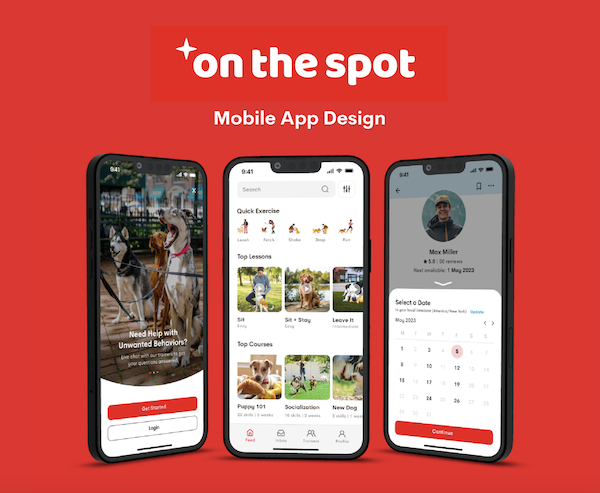
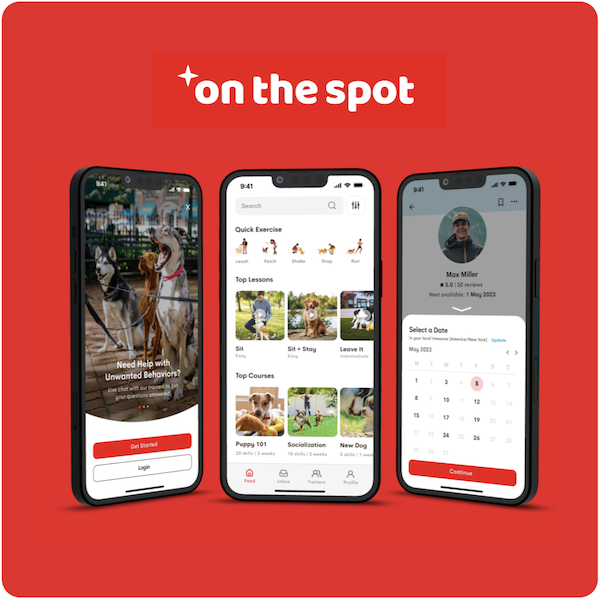
Cover Images Added

diff --git a/index.html b/index.html
@@ -53,8 +53,8 @@
             <div class="col-md-6"> <!-- first column for project -->
                 <div> <!-- open first column (used for image) -->
                     <picture>
-                        <source srcset="https://placehold.co/600x400" media="(max-width:767px)">
-                        <img src="https://placehold.co/1200x800" alt="The cover image for a On The Spot.">
+                        <source srcset="img/on the spot/2x images/onthespot_MockupDisplay@2x.png" media="(max-width:767px)">
+                        <img src="img/on the spot/1x Images/onthespot_MockupDisplay@1x.png" alt="The cover image for a On The Spot.">
                     </picture>
                 </div> <!-- end first column (image) -->
                 <div> <!-- open second column (used for text) -->
@@ -67,8 +67,8 @@
             <div class="col-md-6"> <!-- second column for project -->
                 <div> <!-- open first column (used for image) -->
                     <picture>
-                        <source srcset="https://placehold.co/600x400" media="(max-width:767px)">
-                        <img src="https://placehold.co/1200x800" alt="The cover image for Mindful Digits.">
+                        <source srcset="img/mindful digits/2x Images/mindfuldigits_MockupDisplay@2x.png" media="(max-width:767px)">
+                        <img src="img/mindful digits/1x Images/mindfuldigits_MockupDisplay@1x.png" alt="The cover image for Mindful Digits.">
                     </picture>
                 </div> <!-- end first column (image) -->
                 <div> <!-- open second column (used for text) -->
@@ -83,8 +83,8 @@
             <div class="col-md-6">
                 <div> <!-- open first column (used for image) -->
                     <picture>
-                        <source srcset="https://placehold.co/600x400" media="(max-width:767px)">
-                        <img src="https://placehold.co/1200x800" alt="The cover image for SpaceLab.">
+                        <source srcset="img/spacelab/2x Images/spacelab_MockupDisplay@2x.png" media="(max-width:767px)">
+                        <img src="img/spacelab/1x Images/spacelab_MockupDisplay@1x .png" alt="The cover image for SpaceLab.">
                     </picture>
                 </div> <!-- end first column -->
                 <div> <!-- open second column (used for text) -->
@@ -97,12 +97,26 @@
             <div class="col-md-6">
                 <div> <!-- open first column (used for image) -->
                     <picture>
-                        <source srcset="https://placehold.co/600x400" media="(max-width:767px)">
-                        <img src="https://placehold.co/1200x800" alt="The cover image for SpaceLab.">
+                        <source srcset="img/weatherchannel/2x Images/weatherchannel_MockupDisplay@2x.png" media="(max-width:767px)">
+                        <img src="img/weatherchannel/1x Images/weatherchannel_MockupDisplay@1x.png" alt="The cover image for the WeatherChannel.">
                     </picture>
                 </div> <!-- end first column -->
                 <div> <!-- open second column (used for text) -->
-                    <h4>SpaceLab Donation Landing Page Design</h4> <!-- heading for the project -->
+                    <h4>The WeatherChannel - Heuristic Evaluation</h4> <!-- heading for the project -->
+                    <a href="#" class="button"> Read More</a><!-- button or link label -->
+                </div> <!-- end second column -->
+            </div> <!-- end row that holds (2) columns for project -->
+
+        <!-- PROJECT 5 -->
+            <div class="col-md-6">
+                <div> <!-- open first column (used for image) -->
+                    <picture>
+                        <source srcset="img/spark/2x Images/spark_MockupDisplay@2x.png" media="(max-width:767px)">
+                        <img src="img/spark/1x Images/spark_MockupDisplay@1x.png" alt="The cover image for Spark.">
+                    </picture>
+                </div> <!-- end first column -->
+                <div> <!-- open second column (used for text) -->
+                    <h4>Spark App Mobile Design (Phase 1)</h4> <!-- heading for the project -->
                     <a href="#" class="button"> Read More</a><!-- button or link label -->
                 </div> <!-- end second column -->
             </div> <!-- end row that holds (2) columns for project -->
